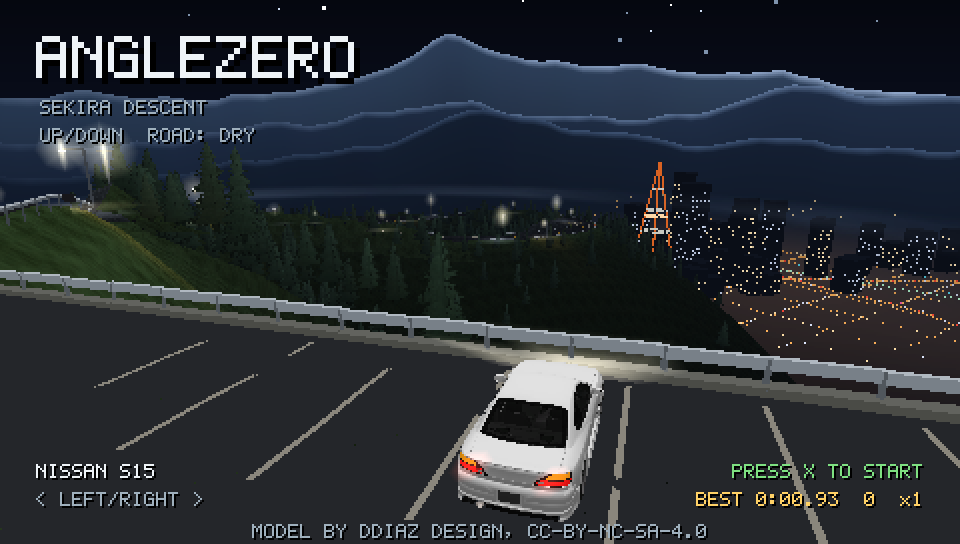
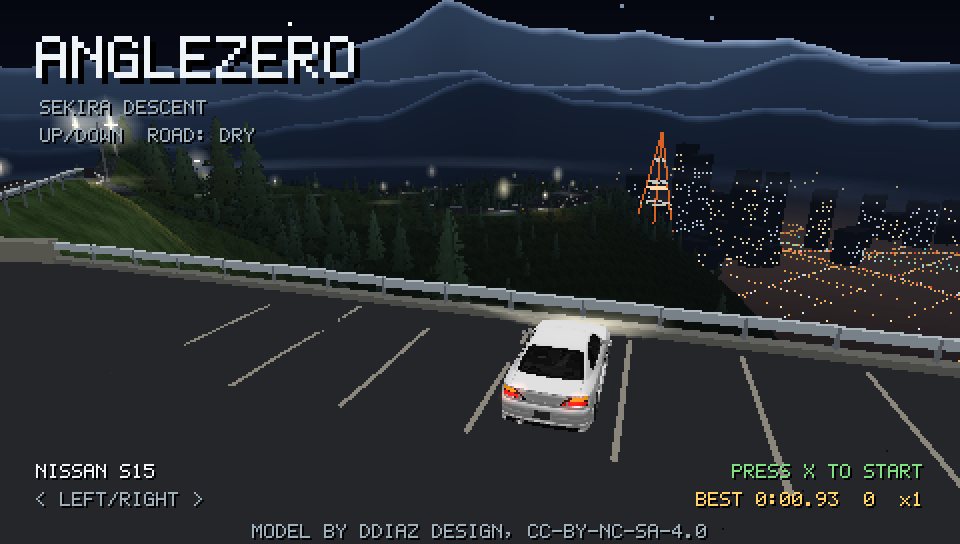
Frame the whole car in the title shot
The camera stands 10.5 m back and 5.6 m up, pitched 17 degrees down, and
eases in only 0.6 m, so the tail of a long car no longer runs off the
bottom of the screen once the push-in has finished. A test now holds
every corner of a 5 m car inside the frame. The car park lamp moves
behind the camera, where its pole stays out of the wider shot.

diff --git a/tests/summit.rs b/tests/summit.rs
@@ -55,3 +55,26 @@ fn the_title_shot_frames_the_car_and_the_first_hairpin() {
     }
     assert!(seen > 20, "only {seen} nodes of the first hairpin are on the left of the title shot");
 }
+
+/// The whole car stays in the title shot once the camera has eased in, with room to spare above
+/// the name in the bottom corner — for a car as long and wide as any in the catalogue.
+#[test]
+fn the_title_shot_keeps_the_whole_car_in_frame() {
+    let t = track();
+    let (x, y, z, yaw, _) = angle_zero::track::carpark_parking(&t);
+    let car = angle_zero::vehicle::CarState { x, y, z, yaw, ..Default::default() };
+    let mut cam = angle_zero::camera::Camera::new();
+    cam.fov = angle_zero::camera::TITLE_FOV;
+    for _ in 0..400 {
+        cam.update_title(&car, 0.1);
+    }
+    let (fx, fz) = (yaw.sin(), yaw.cos());
+    let (rx, rz) = (-fz, fx);
+    for (a, c) in [(2.5f32, 1.0f32), (2.5, -1.0), (-2.5, 1.0), (-2.5, -1.0)] {
+        for h in [0.0f32, 1.4] {
+            let p = angle_zero::math::Vec3::new(x + fx * a + rx * c, y + h, z + fz * a + rz * c);
+            let (sx, sy) = project(&cam, p).expect("car corner behind the camera");
+            assert!((20.0..460.0).contains(&sx) && (20.0..238.0).contains(&sy), "car corner at {sx:.0}, {sy:.0}");
+        }
+    }
+}

diff --git a/src/psp/render.rs b/src/psp/render.rs
@@ -830,11 +830,13 @@ fn build_carpark_props(track: &Track, out: &mut [Vertex]) -> usize {
 const CARPARK_VEND_ALONG: f32 = 4.2;
 const CARPARK_VEND_LATERAL: f32 = 15.0;
 
-/// The car park lamp's foot, as `(along, lateral)`: 8 m back from the middle of the parapet.
+/// The car park lamp's foot, as `(along, lateral)`: behind the title camera, so its pole never
+/// stands in the shot while its pool still reaches the parked car.
 fn carpark_lamp(track: &Track) -> (f32, f32) {
     let ((na, nl), (sa, sl)) = angle_zero::track::carpark_parapet(track);
-    let k = 8.0 * core::f32::consts::FRAC_1_SQRT_2;
-    ((na + sa) * 0.5 - k - 3.0, (nl + sl) * 0.5 - k + 3.0)
+    let k = core::f32::consts::FRAC_1_SQRT_2;
+    // Straight back from the middle bay by 17 m, and 1.5 m over to where the camera stands.
+    ((na + sa) * 0.5 - 17.3 * k - 1.5 * k, (nl + sl) * 0.5 - 17.3 * k + 1.5 * k)
 }
 
 /// The car park's mesh: its paving, walls and dressing. Its own buffer rather than a prop chunk's,

diff --git a/src/camera.rs b/src/camera.rs
@@ -11,13 +11,13 @@ use crate::vehicle::CarState;
 /// right and up, then turned left of the way the car faces and pitched down. From there the first
 /// hairpin sweeps across the left of the frame, the city fills the right, and the car stands in
 /// the middle against the rail.
-pub const TITLE_BACK: f32 = 8.5;
+pub const TITLE_BACK: f32 = 10.5;
 pub const TITLE_RIGHT: f32 = 1.5;
-pub const TITLE_UP: f32 = 5.0;
+pub const TITLE_UP: f32 = 5.6;
 pub const TITLE_TURN: f32 = 18.0 * PI / 180.0;
-pub const TITLE_PITCH: f32 = -14.0 * PI / 180.0;
+pub const TITLE_PITCH: f32 = -17.0 * PI / 180.0;
 /// A slow push-in over the first seconds on the title screen: this much closer, over this long.
-const TITLE_PUSH: f32 = 1.5;
+pub const TITLE_PUSH: f32 = 0.6;
 const TITLE_PUSH_TIME: f32 = 20.0;
 pub const TITLE_FOV: f32 = 54.0;
 const RUN_FOV_BASE: f32 = 60.0;

diff --git a/tests/scoring_camera.rs b/tests/scoring_camera.rs
@@ -183,7 +183,7 @@ fn the_title_camera_holds_its_shot_and_eases_in() {
     }
     let d1 = hypot(cam.pos.x - car.x, cam.pos.z - car.z);
     // It has pushed in a little and then stopped, never swinging round.
-    assert!(d1 < d0 - 1.0 && d1 > d0 - 2.0, "pushed in from {d0:.2} to {d1:.2}");
+    assert!(d1 < d0 - 0.4 && d1 > d0 - 1.0, "pushed in from {d0:.2} to {d1:.2}");
     let moved = hypot(cam.pos.x - start.x, cam.pos.z - start.z);
     assert!(moved < 2.0, "the title camera wandered {moved:.2} m");
     let settled = cam.pos;
